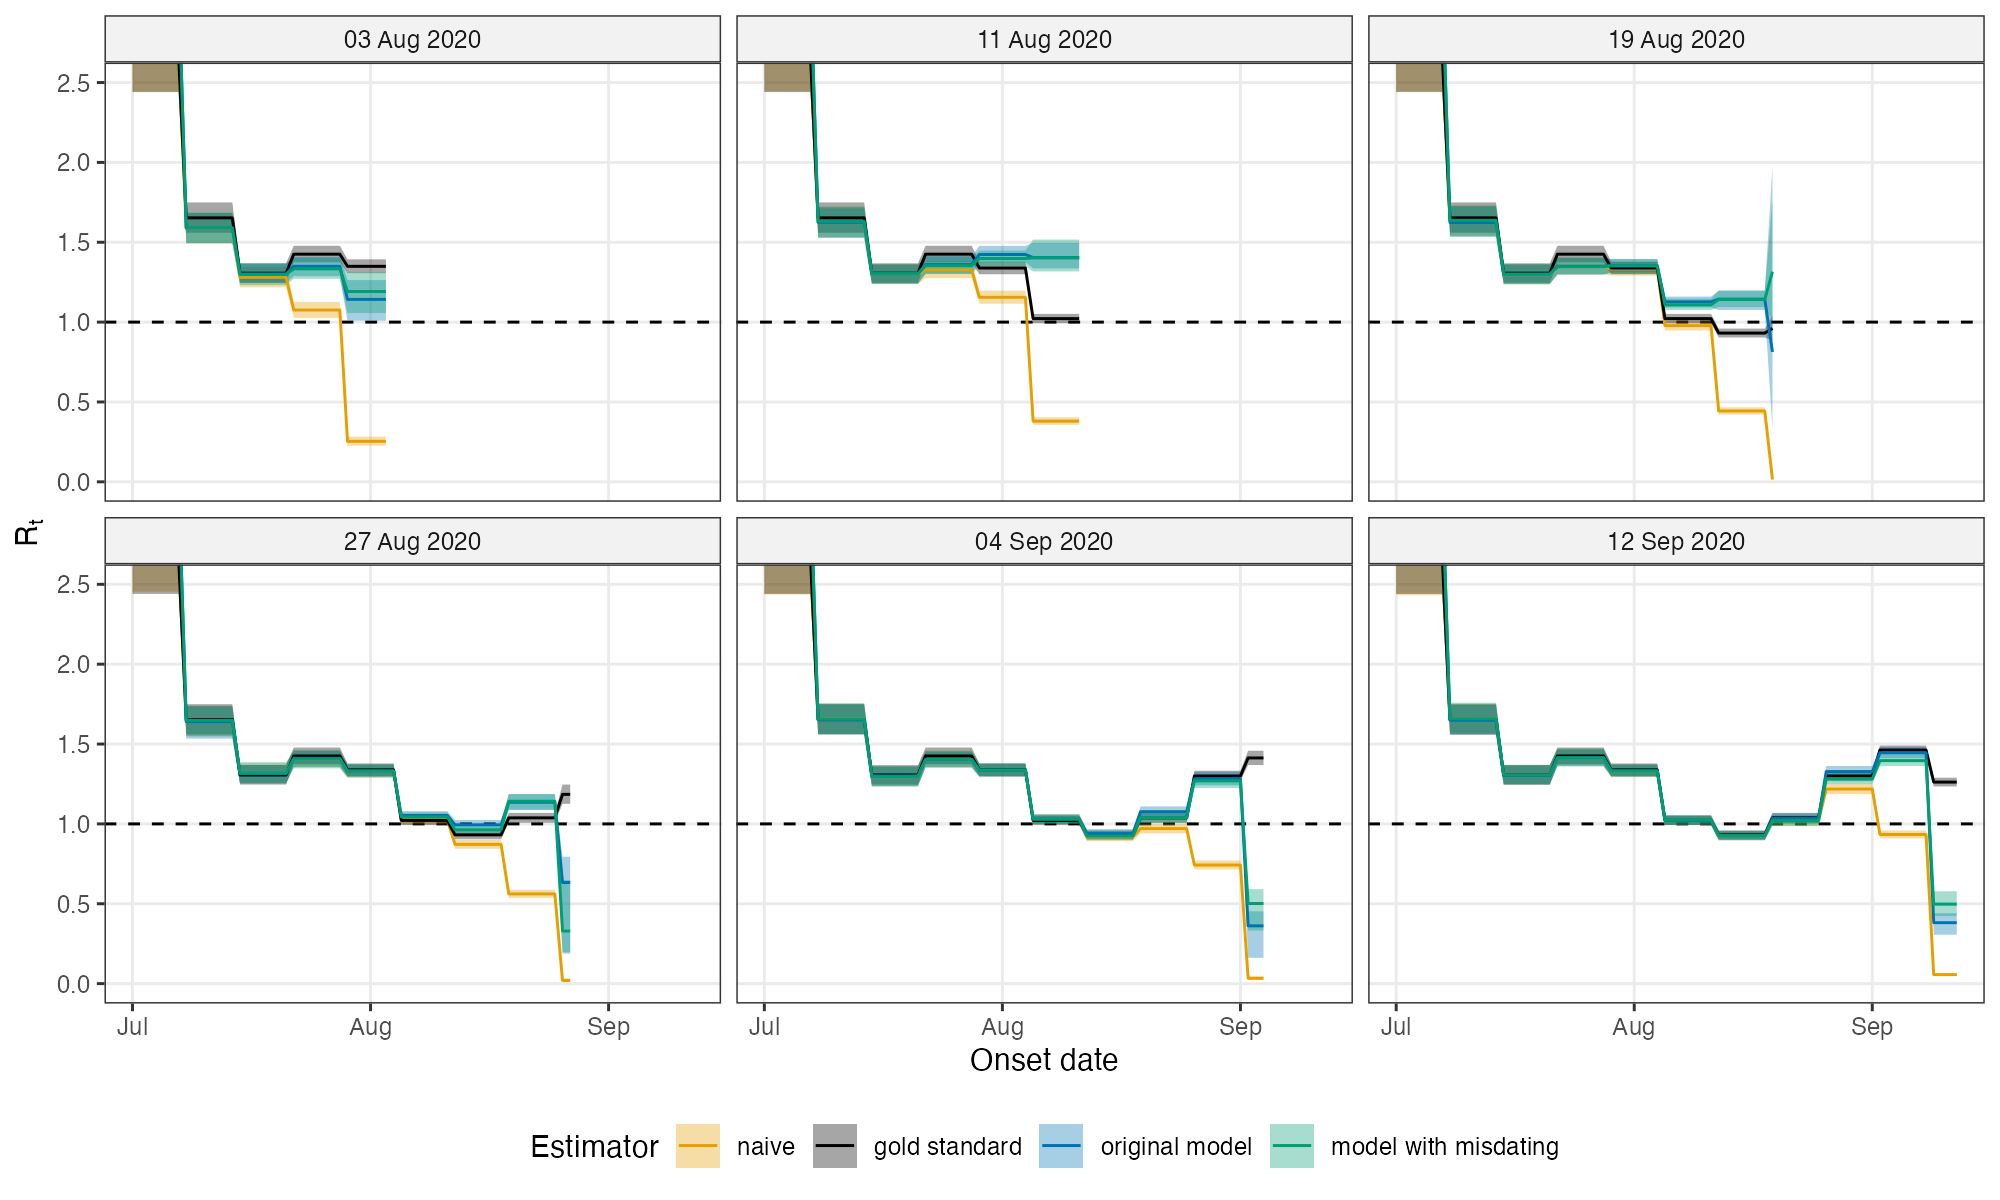
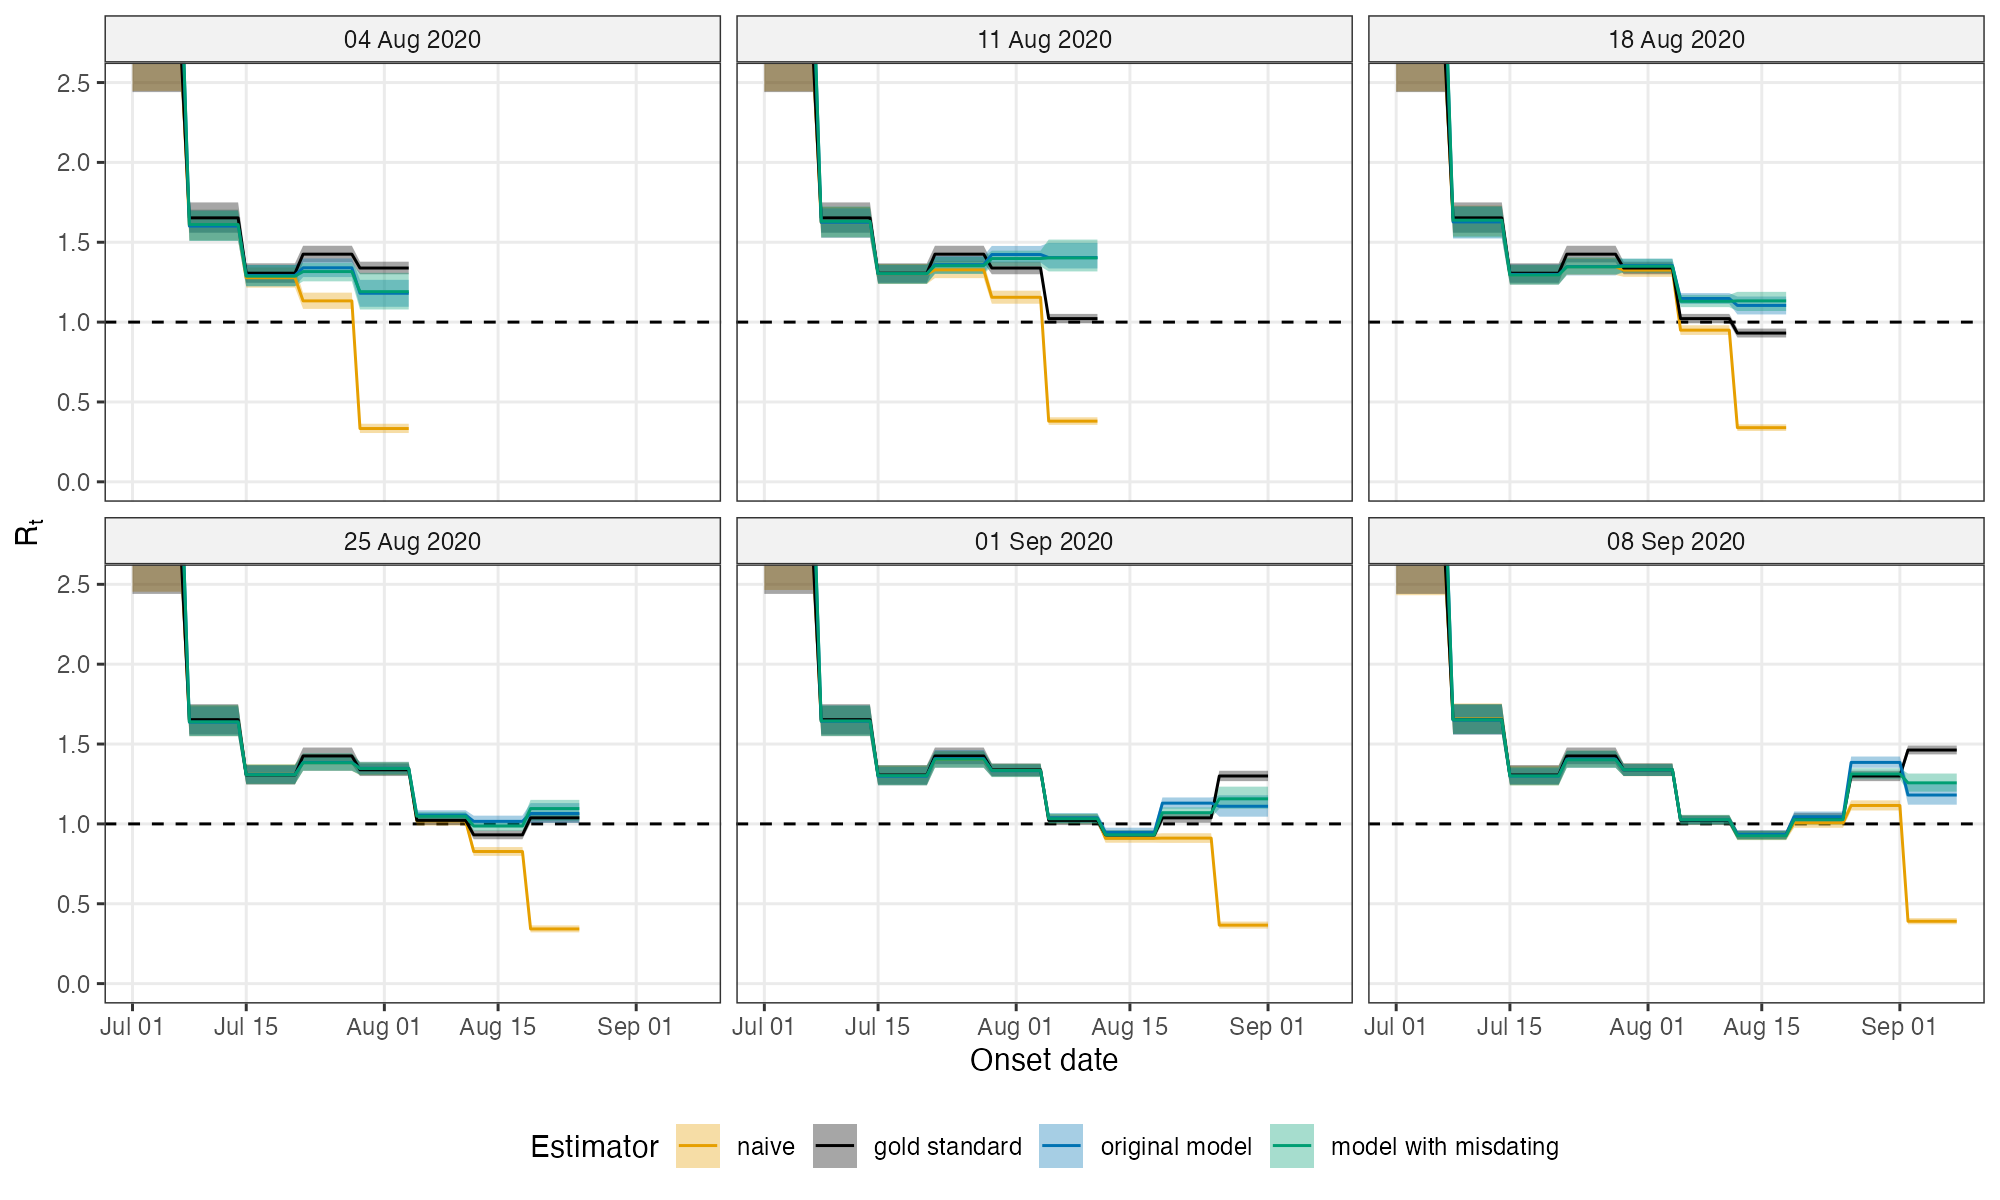
Add Dutch estimates across six analysis dates to the write-up

diff --git a/docs/downward_revisions.tex b/docs/downward_revisions.tex
@@ -958,7 +958,7 @@ had mean and standard deviation $0.005$. Each fit was a single chain of 800
 iterations, of which the first half was discarded. Estimates were compared with
 the counts for the same onset days in the file published on 15 October 2020.
 
-\subsection{Results}
+\subsection{Results for a single analysis date}
 
 \begin{table}[h]
 \centering
@@ -990,7 +990,7 @@ as in table~\ref{tab:simulation}. Parameters are posterior medians.}
 
 Table~\ref{tab:netherlands} and figure~\ref{fig:rivmnowcast} show the results.
 \begin{itemize}[itemsep=2pt]
-\item \emph{Misdating improved the estimates.} With misdating, the absolute
+\item \emph{Misdating improved the estimates at this date.} With misdating, the absolute
 error for the latest 14 onset days fell from 16\% to 10\% and the coverage of
 90\% intervals rose from about 0.1 to between 0.6 and 0.7. The misdating
 probability was estimated at about 4\% and the estimated reporting delay was
@@ -1009,9 +1009,95 @@ days, when cases were rising sharply. The renewal model here is Poisson; a
 negative binomial renewal model would widen the intervals.
 \end{itemize}
 
-\paragraph{Caveats.} This is a single analysis date in a single country. The
-serial interval was assumed rather than estimated, and the counts known on
-15 October are themselves subject to later revision.
+\subsection{Results across a range of analysis dates}
+
+To see whether the results for 1 September are typical, the original model and
+the full model without batches (here called the model with misdating) were
+fitted as of six dates a week apart, from 4 August to 8 September 2020. The
+dates were chosen to fall at the end of one of the seven-day periods over which
+$R_t$ is constant; otherwise the latest period holds only a few onset days,
+about which the data say very little. Figure~\ref{fig:rivmcasesdates} shows the
+estimates of case counts and table~\ref{tab:netherlandsdates} their accuracy.
+Figure~\ref{fig:rivmrtdates} shows the estimates of $R_t$, along with two
+simpler estimates obtained from equation (2.4) of \cite{bajaj2025} by taking a
+series of counts as complete: a \emph{naive} estimate, which uses the counts
+reported by the analysis date, and a \emph{gold standard}, which uses the
+counts known on 15 October.
+
+\begin{table}[h]
+\centering
+\begin{tabular}{lcccccc}
+\toprule
+ & \multicolumn{3}{c}{Original model} & \multicolumn{3}{c}{Model with misdating} \\
+\cmidrule(lr){2-4}\cmidrule(lr){5-7}
+Analysis date & Coverage & Abs.\ error & Bias & Coverage & Abs.\ error & Bias \\
+\midrule
+4 August & 0.00 & 0.25 & $-0.25$ & 0.00 & 0.27 & $-0.27$ \\
+11 August & 0.07 & 0.29 & $0.22$ & 0.07 & 0.27 & $0.18$ \\
+18 August & 0.14 & 0.19 & $0.17$ & 0.14 & 0.19 & $0.16$ \\
+25 August & 0.21 & 0.15 & $0.15$ & 0.43 & 0.12 & $0.11$ \\
+1 September & 0.07 & 0.16 & $0.02$ & 0.71 & 0.10 & $-0.05$ \\
+8 September & 0.21 & 0.16 & $-0.08$ & 0.07 & 0.15 & $-0.14$ \\
+\addlinespace
+Mean & 0.12 & 0.20 & & 0.24 & 0.18 & \\
+\bottomrule
+\end{tabular}
+\caption{Estimates of case counts for the latest 14 onset days in the
+Netherlands, as of six analysis dates, compared with the counts known on
+15 October 2020. Measures are as in table~\ref{tab:simulation}.}
+\label{tab:netherlandsdates}
+\end{table}
+
+\begin{figure}[p]
+\centering
+\includegraphics[width=\textwidth]{rivm_cases_dates.png}
+\caption{Estimates of cases by onset day in the Netherlands as of six analysis
+dates (panels). Orange: cases reported by the analysis date. Black: cases known
+on 15 October 2020. Blue and green: posterior medians and 90\% intervals from
+the original model and the model with misdating.}
+\label{fig:rivmcasesdates}
+\end{figure}
+
+\begin{figure}[p]
+\centering
+\includegraphics[width=\textwidth]{rivm_Rt_dates.png}
+\caption{Estimates of $R_t$ in the Netherlands as of six analysis dates
+(panels): medians and 90\% intervals. The naive estimate takes the counts
+reported by the analysis date as complete; the gold standard uses the counts
+known on 15 October 2020.}
+\label{fig:rivmrtdates}
+\end{figure}
+
+\begin{itemize}[itemsep=2pt]
+\item \emph{The result for 1 September is not typical.} Averaged over the six
+dates, misdating reduced the absolute error for the latest 14 onset days only
+from 20\% to 18\%, and raised coverage only from 0.12 to 0.24. It helped
+clearly on 25 August and 1 September, made little difference on the first
+three dates and gave lower coverage on 8 September.
+\item \emph{Both models correct the naive estimate of $R_t$.} The naive
+estimate for the latest week was between 0.3 and 0.4 at every date, because
+few of that week's cases had yet been reported. Both models removed this
+artefact.
+\item \emph{Neither model anticipates a change in transmission in the latest
+week.} For the latest week the estimates of $R_t$ stayed close to those for the
+week before. Where transmission had changed, they were wrong: on 11 August both
+models gave about 1.4 where the gold standard is about 1.0, and projected
+continued growth in cases which did not occur; on 8 September both gave about
+1.2 where the gold standard is about 1.45, and underestimated a sharp rise.
+\item \emph{Intervals are too narrow.} Coverage was far below 90\% at every
+date for both models. Errors of this kind, in which the latest week is
+extrapolated from the one before, are not reflected in the posterior
+intervals.
+\item \emph{Estimates for onset days more than about a week old are good} at
+every date, for both models.
+\end{itemize}
+
+\paragraph{Caveats.} These analyses concern one period in one country. The
+serial interval was assumed rather than estimated, each fit is a single chain
+of 800 iterations whose convergence was not assessed, and the counts known on
+15 October are themselves subject to later revision. The counts by onset day
+rise abruptly at the end of August (figure~\ref{fig:rivmdelays}), which may
+reflect a change in reporting as well as in transmission.
 
 \section{Other data}\label{sec:otherdata}
 

diff --git a/README.md b/README.md
@@ -76,3 +76,7 @@ the counts for the same onset dates as known on 15 October.
 - `data/raw/`: downloaded files (not tracked).
 - `data/processed/`: snapshot tables derived from the raw files (tracked).
 - `outputs/`: figures, tables and `results.md`, written by the pipeline.
+
+Further snapshot data in `data/processed/`, not yet analysed: Hong Kong COVID-19
+cases by onset date with every change to an individual case's onset date
+(`scripts/download_hk.R`), and Swedish COVID-19 deaths by date of death.
